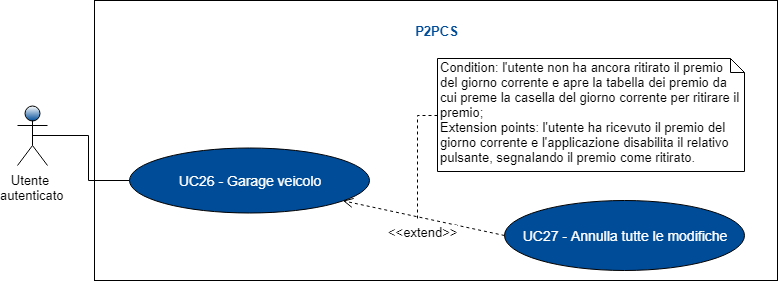
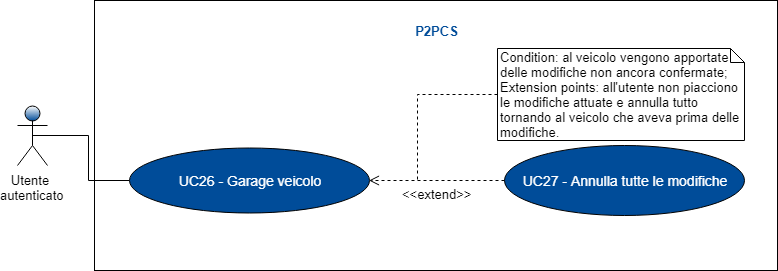
finito garage uc26

diff --git a/RR/Esterni/Analisi_dei_requisiti/res/sections/UC/UC26-27GarageVeicolo.tex b/RR/Esterni/Analisi_dei_requisiti/res/sections/UC/UC26-27GarageVeicolo.tex
@@ -1,8 +1,8 @@
 \subsubsection{UC26 - Garage veicolo}
 \begin{figure}[h]
-	\includegraphics[width=9cm]{res/images/UC26Garage.png}
+	\includegraphics[width=13cm]{res/images/UC26Garage.png}
 	\centering
-	\caption{UC26 - Garage veicolo}
+	\caption{Diagramma del caso d'uso UC26 con relative estensioni (UC27)}
 \end{figure}
 \begin{itemize}
 	\item \textbf{Attori Primari}: utente autenticato;
@@ -27,9 +27,14 @@
 	\item \textbf{Precondizione}: l'utente autenticato ha selezionato la voce \textit{Garage} dal menu dell'applicazione;
 	\item \textbf{Post-condizione}: l'utente autenticato ha visualizzato la sua auto e installato le modifiche se attuate. 
 \end{itemize}
+\begin{figure}[h]
+	\includegraphics[width=10cm]{res/images/UC26-Garage.png}
+	\centering
+	\caption{UC26 - Garage veicolo}
+\end{figure}
 \subsubsection{UC26.1 - Prestazione}
 \begin{figure}[h]
-	%\includegraphics[width=9cm]{res/images/UC23Codiceamico.png}
+	\includegraphics[width=9.5cm]{res/images/UC26-1Prestazioni.png}
 	\centering
 	\caption{UC26.1 - Prestazione}
 \end{figure}
@@ -92,10 +97,10 @@
 	\item \textbf{Precondizione}: l'utente ha scelto di modificare le gomme del proprio veicolo; 
 	\item \textbf{Postcondizione}: l'utente ha correttamente scelto le gomme sbloccate da installare, in caso contrario terrà il modello base.
 \end{itemize}
-
+\newpage
 \subsubsection{UC26.2 - Estetica}
 \begin{figure}[h]
-	%\includegraphics[width=9cm]{res/images/UC23Codiceamico.png}
+	\includegraphics[width=9cm]{res/images/UC26-2Estetica.png}
 	\centering
 	\caption{UC26.2 - Estetica}
 \end{figure}
@@ -119,45 +124,72 @@
 \subsubsection{UC26.2.1 - Colore}
 \begin{itemize}
 	\item \textbf{Attori Primari}: utente autenticato;
-	\item \textbf{Descrizione}: in questa sezione l'utente può modificare il motore della propria auto se in possesso di premi ricevuti da completamento di qualche obbiettivo o altro e di eventuali punti esperienza guadagnati col l'utilizzo continuo dell'applicazione.
-	All'inizio viene messo a disposizione il modello base;
-	\item \textbf{Scenario principale}: l'utente vuole modificare il motore della propria auto e verifica la presenza di motori migliori da poter installare, ma per pezzi non ancora sbloccati sarà possibile solo verificare i punti sulle statistiche oscurando l'immagine del pezzo stesso;
-	\item \textbf{Precondizione}: l'utente ha scelto di modificare il motore del proprio veicolo; 
-	\item \textbf{Postcondizione}: l'utente ha correttamente scelto un motore sbloccato da installare, in caso contrario terrà il modello base.
+	\item \textbf{Descrizione}: in questa sezione l'utente può modificare il colore della propria auto se in possesso di premi ricevuti da completamento di qualche obbiettivo o altro e di eventuali punti esperienza guadagnati col l'utilizzo continuo dell'applicazione.
+	All'inizio vengono messi a disposizione i colori complementari di base;
+	\item \textbf{Scenario principale}: l'utente vuole modificare il colore della propria auto e verifica la presenza di colori migliori da poter installare, ma per quelli non ancora sbloccati sarà possibile solo verificare i nomi oscurando l'immagine del colore stesso;
+	\item \textbf{Precondizione}: l'utente ha scelto di modificare il colore del proprio veicolo; 
+	\item \textbf{Postcondizione}: l'utente ha correttamente scelto un colore sbloccato da installare, in caso contrario terrà quello base.
 \end{itemize}
-\subsubsection{UC26.1.2 - Centralina}
+\subsubsection{UC26.2.2 - Adesivi}
 \begin{itemize}
 	\item \textbf{Attori Primari}: utente autenticato;
-	\item \textbf{Descrizione}: in questa sezione l'utente può modificare la centralina della propria auto se in possesso di premi ricevuti da completamento di qualche obbiettivo o altro e di eventuali punti esperienza guadagnati col l'utilizzo continuo dell'applicazione.
-	All'inizio viene messo a disposizione il modello base;
-	\item \textbf{Scenario principale}: l'utente vuole modificare la centralina della propria auto e verifica la presenza di centraline migliori da poter installare, ma per pezzi non ancora sbloccati sarà possibile solo verificare i punti sulle statistiche oscurando l'immagine del pezzo stesso;
-	\item \textbf{Precondizione}: l'utente ha scelto di modificare la centralina del proprio veicolo; 
-	\item \textbf{Postcondizione}: l'utente ha correttamente scelto una centralina sbloccata da installare, in caso contrario terrà il modello base.
+	\item \textbf{Descrizione}: in questa sezione l'utente può aggiungere l'adesivo alla propria auto se in possesso di premi ricevuti da completamento di qualche obbiettivo o altro e di eventuali punti esperienza guadagnati col l'utilizzo continuo dell'applicazione.
+	All'inizio il veicolo non disporrà di nessun adesivo base;
+	\item \textbf{Scenario principale}: l'utente vuole aggiungere un'adesivo alla propria auto e verifica la presenza di adesivi da poter installare, ma per pezzi non ancora sbloccati sarà possibile solo verificare i nomi oscurando l'immagine dell'adesivo stesso;
+	\item \textbf{Precondizione}: l'utente ha scelto di aggiungere un adesivo al proprio veicolo; 
+	\item \textbf{Postcondizione}: l'utente ha correttamente scelto un adesivo sbloccato da installare, in caso contrario terrà l'auto senza.
 \end{itemize}
-\subsubsection{UC26.1.1 - Trasmissione}
+\subsubsection{UC26.2.3 - Paraurti}
 \begin{itemize}
 	\item \textbf{Attori Primari}: utente autenticato;
-	\item \textbf{Descrizione}: in questa sezione l'utente può modificare la trasmissione della propria auto se in possesso di premi ricevuti da completamento di qualche obbiettivo o altro e di eventuali punti esperienza guadagnati col l'utilizzo continuo dell'applicazione.
+	\item \textbf{Descrizione}: in questa sezione l'utente può modificare il paraurti (anteriore e posteriore) della propria auto se in possesso di premi ricevuti da completamento di qualche obbiettivo o altro e di eventuali punti esperienza guadagnati col l'utilizzo continuo dell'applicazione.
 	All'inizio viene messo a disposizione il modello base;
-	\item \textbf{Scenario principale}: l'utente vuole modificare la trasmissione della propria auto e verifica la presenza di motori migliori da poter installare, ma per pezzi non ancora sbloccati sarà possibile solo verificare i punti sulle statistiche oscurando l'immagine del pezzo stesso;
-	\item \textbf{Precondizione}: l'utente ha scelto di modificare la trasmissione del proprio veicolo; 
-	\item \textbf{Postcondizione}: l'utente ha correttamente scelto una trasmissione sbloccata da installare, in caso contrario terrà il modello base.
+	\item \textbf{Scenario principale}: l'utente vuole modificare il paraurti (anteriore o posteriore) della propria auto e verifica la presenza di paraurti migliori da poter installare, ma per pezzi non ancora sbloccati sarà possibile solo verificare i punti sulle statistiche oscurando l'immagine del pezzo stesso;
+	\item \textbf{Precondizione}: l'utente ha scelto di modificare il paraurti (anteriore o posteriore) del proprio veicolo; 
+	\item \textbf{Postcondizione}: l'utente ha correttamente scelto un paraurti sbloccato da installare, in caso contrario terrà il modello base.
 \end{itemize}
-\subsubsection{UC26.1.1 - Sospensioni}
+\subsubsection{UC26.2.4 - Fari}
 \begin{itemize}
 	\item \textbf{Attori Primari}: utente autenticato;
-	\item \textbf{Descrizione}: in questa sezione l'utente può modificare le sospensioni della propria auto se in possesso di premi ricevuti da completamento di qualche obbiettivo o altro e di eventuali punti esperienza guadagnati col l'utilizzo continuo dell'applicazione.
+	\item \textbf{Descrizione}: in questa sezione l'utente può modificare i fari (anteriori e posteriori) della propria auto se in possesso di premi ricevuti da completamento di qualche obbiettivo o altro e di eventuali punti esperienza guadagnati col l'utilizzo continuo dell'applicazione.
 	All'inizio viene messo a disposizione il modello base;
-	\item \textbf{Scenario principale}: l'utente vuole modificare le sospensioni della propria auto e verifica la presenza di motori migliori da poter installare, ma per pezzi non ancora sbloccati sarà possibile solo verificare i punti sulle statistiche oscurando l'immagine del pezzo stesso;
-	\item \textbf{Precondizione}: l'utente ha scelto di modificare le sospensioni del proprio veicolo; 
-	\item \textbf{Postcondizione}: l'utente ha correttamente scelto le sospensioni sbloccate da installare, in caso contrario terrà il modello base.
+	\item \textbf{Scenario principale}: l'utente vuole modificare i fari (anteriori e posteriori) della propria auto e verifica la presenza di fari migliori da poter installare, ma per pezzi non ancora sbloccati sarà possibile solo verificare i nomi oscurando l'immagine del pezzo stesso;
+	\item \textbf{Precondizione}: l'utente ha scelto di modificare i fari (anteriori e posteriori) del proprio veicolo; 
+	\item \textbf{Postcondizione}: l'utente ha correttamente scelto i fari sbloccati da installare, in caso contrario terrà il modello base.
 \end{itemize}
-\subsubsection{UC26.1.1 - Gomme}
+\subsubsection{UC26.2.5 - Scarichi}
 \begin{itemize}
 	\item \textbf{Attori Primari}: utente autenticato;
-	\item \textbf{Descrizione}: in questa sezione l'utente può modificare le gomme della propria auto se in possesso di premi ricevuti da completamento di qualche obbiettivo o altro e di eventuali punti esperienza guadagnati col l'utilizzo continuo dell'applicazione.
+	\item \textbf{Descrizione}: in questa sezione l'utente può modificare gli scarichi della propria auto se in possesso di premi ricevuti da completamento di qualche obbiettivo o altro e di eventuali punti esperienza guadagnati col l'utilizzo continuo dell'applicazione.
 	All'inizio viene messo a disposizione il modello base;
-	\item \textbf{Scenario principale}: l'utente vuole modificare le gomme della propria auto e verifica la presenza di motori migliori da poter installare, ma per pezzi non ancora sbloccati sarà possibile solo verificare i punti sulle statistiche oscurando l'immagine del pezzo stesso;
-	\item \textbf{Precondizione}: l'utente ha scelto di modificare le gomme del proprio veicolo; 
-	\item \textbf{Postcondizione}: l'utente ha correttamente scelto le gomme sbloccate da installare, in caso contrario terrà il modello base.
+	\item \textbf{Scenario principale}: l'utente vuole modificare gli scarichi della propria auto e verifica la presenza di motori migliori da poter installare, ma per pezzi non ancora sbloccati sarà possibile solo verificare i nomi oscurando l'immagine del pezzo stesso;
+	\item \textbf{Precondizione}: l'utente ha scelto di modificare gli scarichi del proprio veicolo; 
+	\item \textbf{Postcondizione}: l'utente ha correttamente scelto gli scarichi sbloccati da installare, in caso contrario terrà il modello base.
+\end{itemize}
+\subsubsection{UC26.2.6 - Cerchioni}
+\begin{itemize}
+	\item \textbf{Attori Primari}: utente autenticato;
+	\item \textbf{Descrizione}: in questa sezione l'utente può modificare i cerchioni della propria auto se in possesso di premi ricevuti da completamento di qualche obbiettivo o altro e di eventuali punti esperienza guadagnati col l'utilizzo continuo dell'applicazione.
+	All'inizio viene messo a disposizione il modello base;
+	\item \textbf{Scenario principale}: l'utente vuole modificare i cerchioni della propria auto e verifica la presenza di motori migliori da poter installare, ma per pezzi non ancora sbloccati sarà possibile solo verificare i nomi oscurando l'immagine del pezzo stesso;
+	\item \textbf{Precondizione}: l'utente ha scelto di modificare i cerchioni del proprio veicolo; 
+	\item \textbf{Postcondizione}: l'utente ha correttamente scelto i cerchioni sbloccati da installare, in caso contrario terrà il modello base.
+\end{itemize} 
+\subsubsection{UC26.2.7 - Alettoni}
+\begin{itemize}
+	\item \textbf{Attori Primari}: utente autenticato;
+	\item \textbf{Descrizione}: in questa sezione l'utente può aggiungere l'alettone alla propria auto se in possesso di premi ricevuti da completamento di qualche obbiettivo o altro e di eventuali punti esperienza guadagnati col l'utilizzo continuo dell'applicazione.
+	All'inizio il veicolo non disporrà di nessun alettone base;
+	\item \textbf{Scenario principale}: l'utente vuole aggiungere l'alettone alla propria auto e verifica la presenza di alettoni migliori da poter installare, ma per pezzi non ancora sbloccati sarà possibile solo verificare i nomi oscurando l'immagine del pezzo stesso;
+	\item \textbf{Precondizione}: l'utente ha scelto di aggiungere un alettone al proprio veicolo; 
+	\item \textbf{Postcondizione}: l'utente ha correttamente scelto l'alettone sbloccato da installare, in caso contrario terrà l'auto senza.
+\end{itemize} 
+
+\subsubsection{UC27 - Annulla tutte le modifiche}
+\begin{itemize}
+	\item \textbf{Attori Primari}: utente autenticato;
+	\item \textbf{Descrizione}: l'utente ha la possibilità di annullare tutte le modifiche fatte alla propria auto nel momento in cui non gli piace come l'ha modificata;
+	\item \textbf{Scenario principale}: all'utente non piacciono le modifiche installate ma non ancora confermate e decide quindi di annullarle tutte per tornare a com'era prima;
+	\item \textbf{Precondizione}: al veicolo vengono apportate delle modifiche non ancora confermate; 
+	\item \textbf{Postcondizione}: all'utente non piacciono le modifiche attuate e annulla tutto tornando al veicolo che aveva prima delle modifiche.
 \end{itemize} 
